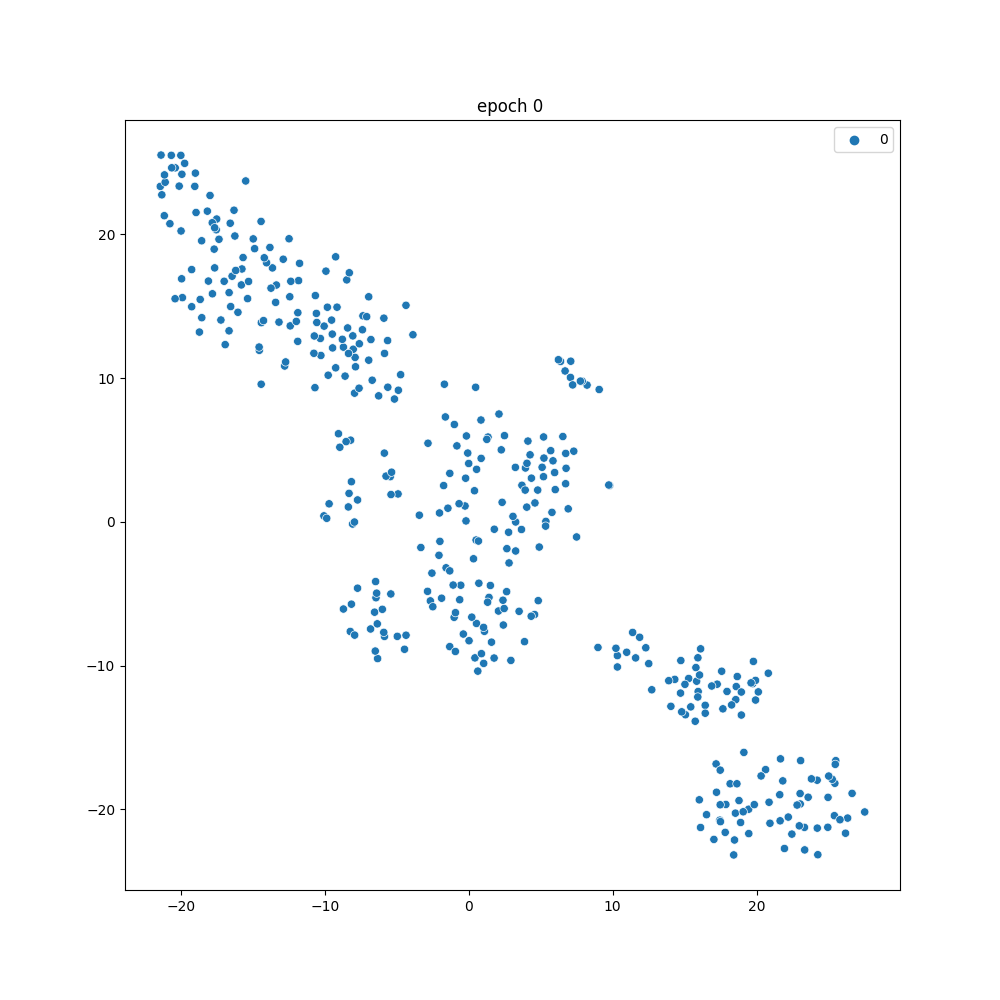
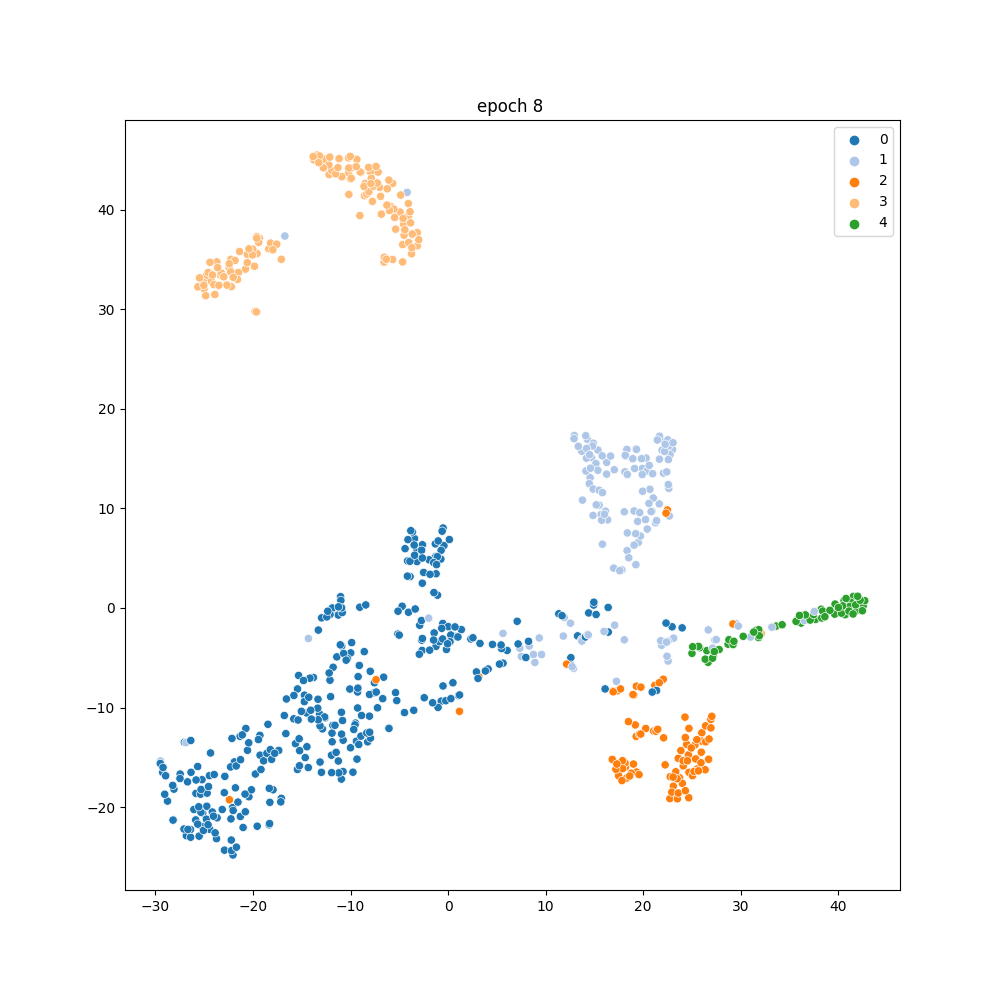
Adicion de nuevos elementos

diff --git a/builders.py b/builders.py
@@ -13,7 +13,7 @@ from callbacks import  SplitDatasetWithKFoldStrategy,ConfusionMatrix,PlotLatentS
 from datamodule import DataModule
 from config import CONFIG, Dataset,TargetModel,AvailableTransforms
 from timm.data.transforms_factory import transforms_imagenet_train,transforms_imagenet_eval
-
+from _utils import load_system
 def build_dataset(root_path:str,dataset_name:str=CONFIG.dataset_name,
                   batch_size:int=CONFIG.batch_size,transform_fn_train=None,transform_fn_val=None):
     
@@ -57,18 +57,19 @@ def get_transforms(transforms_name:str):
             color_jitter=color_jitter,
             auto_augment=auto_augment,  
         )
-        transform_val=transforms_imagenet_eval(
+        
+    else:
+        transform_train=None
+    transform_val=transforms_imagenet_eval(
             img_size=img_size,
         )
-    else:
-        raise NotImplementedError
     return transform_train,transform_val
 def get_callbacks(config:CONFIG,dm,only_train_and_test=False):
     #callbacks
     
     early_stopping=EarlyStopping(monitor='_val_loss',
                                  mode="min",
-                                patience=10,
+                                patience=7,
                                  verbose=True,
                                  check_finite =True
                                  )
@@ -120,36 +121,42 @@ def get_callbacks(config:CONFIG,dm,only_train_and_test=False):
 def get_system(config:CONFIG,dm,num_fold=0,num_repeat=0):
     dataset_name=config.dataset_name
     dataset_enum=Dataset[dataset_name]
-    if hasattr(dm.data_train.dataset,"datasets"):
-        num_class=[len(dm.data_train.dataset.datasets[0].classes),len(dm.data_train.dataset.datasets[1].classes)]
+    num_class=dm.num_class
+    # if hasattr(dm.data_train.dataset,"datasets"):
+    #     num_class=dm.num_class
+    # else:
+            
+    #     num_class=len(dm.data_train.dataset.classes)
+    if config.LOAD_MODEL:
+        
+        load_system(config.checkpoint_name)
     else:
+       
+        if config.target_name==TargetModel.classifier_model_standar.name:
+            
+            system=LitClassifier(
+                model_name=config.experiment_name,
+                lr=config.lr,
+                optim=config.optim_name,
+                in_chans=dm.in_chans,
+                num_class=num_class,
+                num_fold=num_fold,
+                num_repeat=num_repeat
+                                )
         
-        num_class=len(dm.data_train.dataset.classes)
-    if config.target_name==TargetModel.classifier_model_standar.name:
-        
-        system=LitClassifier(
-            model_name=config.experiment_name,
-            lr=config.lr,
-            optim=config.optim_name,
-            in_chans=dm.in_chans,
-            num_class=num_class,
-            num_fold=num_fold,
-            num_repeat=num_repeat
-                             )
-    
-    elif config.target_name==TargetModel.classifier_model_two_in_one.name and dataset_enum==Dataset.elementos_and_fondos:
-        system=LitClassifierTwoInOne(
-            model_name=config.experiment_name,
-            lr=config.lr,
-            optim=config.optim_name,
-            in_chans=dm.in_chans,
-            num_class=num_class,
-            num_fold=num_fold,
-            num_repeat=num_repeat
-                             )
-    else:
-        
-        raise "algo raro, probablemente seleccionaste los dos dataset"   
+        elif config.target_name==TargetModel.classifier_model_two_in_one.name and dataset_enum==Dataset.elementos_and_fondos:
+            system=LitClassifierTwoInOne(
+                model_name=config.experiment_name,
+                lr=config.lr,
+                optim=config.optim_name,
+                in_chans=dm.in_chans,
+                num_class=num_class,
+                num_fold=num_fold,
+                num_repeat=num_repeat
+                                )
+        else:
+            
+            raise "algo raro, probablemente seleccionaste los dos dataset"   
     return system
 
 def get_trainer(wandb_logger,callbacks,config):

diff --git a/lit_classifier.py b/lit_classifier.py
@@ -7,6 +7,8 @@ from config import  ModelsAvailable
 from lit_system import LitSystem
 from metrics import get_metrics_collections_base
 from timm.models.layers.classifier import create_classifier
+from image_classification.models import get_model
+from factory_model import FacebookModels
 class LitClassifier(LitSystem):
     
     def __init__(self,
@@ -64,7 +66,9 @@ class LitClassifier(LitSystem):
         
         if isinstance(model_name,str):
             model_enum=ModelsAvailable[model_name.lower()]
-            
+        # print(timm.list_models())
+        # print(timm.list_models(pretrained=True))
+        
         if model_enum.value in timm.list_models(pretrained=True) and isinstance(num_class,int)  :
             extras=dict(in_chans=in_chans)
             self.model=timm.create_model(
@@ -81,6 +85,12 @@ class LitClassifier(LitSystem):
                                         num_classes=0,
                                         **extras
                                         )
+        elif model_enum==ModelsAvailable.xcits:
+            self.model=get_model( "XciT","S",
+                                 pretrained="checkpoints/xcit_small_24_p16_224_dist.pth",
+                                 image_size=448)
+        elif model_enum.name[0:4]==ModelsAvailable.dino_xcit_medium_24_p16.name[0:4]:
+            self.model=FacebookModels(num_class=num_class,name_model=model_enum.value)
 class LitClassifierTwoInOne(LitClassifier):
     
     def __init__(self, 
@@ -101,8 +111,8 @@ class LitClassifierTwoInOne(LitClassifier):
         weights_0 = torch.ones(5)
         weights_1 = torch.ones(6)
         ignore_classes = torch.LongTensor([0])
-        weights_0[ignore_classes] = 0.0
-        weights_1[ignore_classes] = 0.0
+        weights_0[ignore_classes] = 0.5
+        weights_1[ignore_classes] = 0.5
         self.criterion_0=torch.nn.CrossEntropyLoss(weight=weights_0)
         self.criterion_1=torch.nn.CrossEntropyLoss(weight=weights_1)
         
@@ -126,7 +136,7 @@ class LitClassifierTwoInOne(LitClassifier):
         
         x,labels,dataset_id=batch
         preds_0,preds_1=self.forward(x)
-        
+        #lo siguiente será realizar un clasificador binario
         tensor_template_0=torch.zeros(labels.shape[0]).to(self.device)
         tensor_label_useless_0=torch.full(labels.shape,0).to(self.device)
         labels0=torch.where(dataset_id==tensor_template_0,labels,tensor_label_useless_0)
@@ -140,7 +150,7 @@ class LitClassifierTwoInOne(LitClassifier):
         loss_1=self.criterion_1(preds_1,labels_1)
         preds_1=preds_1.softmax(dim=1)
         
-        loss=loss_0+loss_1
+        loss=loss_0*0.5+loss_1*0.5
         try:
             metric_value0=metric0(preds_0,labels0)
             metric_value1=metric1(preds_1,labels_1)

diff --git a/config.py b/config.py
@@ -17,7 +17,15 @@ class ModelsAvailable(Enum):
     tf_efficientnet_b4="tf_efficientnet_b4"
     tf_efficientnet_b4_ns="tf_efficientnet_b4_ns"
     tf_efficientnet_b7="tf_efficientnet_b7"
-    xcitS="checkpoints/xcit_small_24_p16_224_dist.pth"
+    cait_m48_448="cait_m48_448"
+    xcits="checkpoints/xcit_small_24_p16_224_dist.pth"
+    dino_xcit_medium_24_p16='dino_xcit_medium_24_p16'
+    dino_vits8="dino_vits8" #pues batch de 6 como mucho
+    vit_base_patch16_224_miil_in21k="vit_base_patch16_224_miil_in21k"
+    vit_base_patch16_384="vit_base_patch16_384"
+    
+    
+    
     
 class Dataset (Enum):
     elementos_presentes="ocean_elements"
@@ -40,6 +48,7 @@ class AvailableTransforms(Enum):
     p600_50_0_40_none=4
     p448_50_30_40_rand=5
     p448_50_30_70_rand=6
+    p384_50_30_40_rand=7
     
 @dataclass
 class CONFIG(object):
@@ -56,8 +65,8 @@ class CONFIG(object):
     transforms_target=AvailableTransforms.p448_50_30_40_rand
     transforms_name:str=transforms_target.name
     #torch config
-    batch_size:int = 49
-    dataset=Dataset.fondos
+    batch_size:int = 40
+    dataset=Dataset.elementos_presentes
     dataset_name:str=dataset.name
     precision_compute:int=16
     optim=Optim.adam
@@ -72,10 +81,11 @@ class CONFIG(object):
     NUM_WORKERS:int = 4
     SEED:int=1
     # IMG_SIZE:int=28
-    NUM_EPOCHS :int= 50
+    NUM_EPOCHS :int= 75
     LOAD_MODEL :bool= False
     SAVE_MODEL :bool= False
     PATH_CHECKPOINT: str= os.path.join(ROOT_WORKSPACE,"/model/checkpoint")
+    checkpoint_name:str=experiment.value
 
     callback_plot_latent_space:bool=False
     callback_matrix_wandb:bool=False
@@ -84,10 +94,10 @@ class CONFIG(object):
     
     gpu0:bool=False  
     gpu1:bool=True
-    notes:str="final experiments"
+    notes:str=""
     
-    version:int=3
-    #en la versión 3 se ha añadido un transform al dataset de validación ya que se usaba el de entrenamiento
+    version:int=4
+    #Iniciando el poner Dino
     
 
 def create_config_dict(instance:CONFIG):

diff --git a/train.py b/train.py
@@ -16,7 +16,7 @@ import wandb
 from builders import build_dataset, get_callbacks, get_trainer,get_system,get_transforms
 from config import CONFIG, create_config_dict
 import pandas as pd
-
+import numpy as np
 ##code to run cd /home/dcast/adversarial_project ; /usr/bin/env /home/dcast/anaconda3/envs/deep_learning_torch/bin/python  -- /home/dcast/adversarial_project/openml/train.py
 def apply_train_test():
     def get_new_system_and_do_training_and_test(config,data_module,wandb_logger,callbacks,num_repeat=None,num_fold=None,run_test:bool=False):
@@ -24,6 +24,7 @@ def apply_train_test():
 
         # test_dataloader=data_module.test_dataloader()
         #create trainer
+        callbacks[1].best_score=torch.tensor(np.Inf)
         trainer=get_trainer(wandb_logger,callbacks,config)
         
         # model=autotune_lr(trainer,model,data_module,get_auto_lr=config.AUTO_LR)

diff --git a/datamodule.py b/datamodule.py
@@ -59,15 +59,16 @@ class DataModule(LightningDataModule):
         if self.dataset_enum == Dataset.elementos_presentes:
             self.dataset=ElementsLoader
             self.in_chans=3
-
+            self.num_class=5
         elif self.dataset_enum == Dataset.fondos:
             self.dataset=FondosLoader
-
+            self.num_class=4
                 
         elif self.dataset_enum==Dataset.elementos_and_fondos:
             self.dataset=[FondosLoaderToCombine,ElementsLoaderToCombine]
             self.datasets_enums=[Dataset.fondos,Dataset.elementos_presentes]
-            
+            self.num_class=[5,4]
+
     def prepare_data(self):
      
         

diff --git a/factory_model.py b/factory_model.py
@@ -1,0 +1,17 @@
+import torch
+import torch.nn as nn
+
+import timm
+from timm.models.layers.classifier import create_classifier
+class FacebookModels(nn.Module):
+    def __init__(self,num_class,name_model):
+        super().__init__()
+        self.backbone=torch.hub.load("facebookresearch/dino:main" ,name_model)
+        num_features=self.backbone.num_features
+        _,self.classifier=create_classifier(num_features,num_class,pool_type="avg")
+        
+    def forward(self,x):
+        x=self.backbone(x)
+        # x=self.global_pool(x)
+        x=self.classifier(x)
+        return x

diff --git a/callbacks.py b/callbacks.py
@@ -184,7 +184,7 @@ class PlotLatentSpace(Callback):
         filenames = []
         labels=[]
         rng=np.random.default_rng()
-        classes_selected=np.array(list(range(0,198,10))    )
+        classes_selected=np.array(list(range(0,10,1))    )
         # disable gradients for faster calculations
         pl_module.eval()
         with torch.no_grad():

diff --git a/_utils.py b/_utils.py
@@ -1,0 +1,9 @@
+
+from lit_classifier import LitClassifier
+from config import CONFIG
+import os
+def load_system(checkpoint_name,root_path=CONFIG.PATH_CHECKPOINT):
+    path_ckpt=os.path.join(root_path,checkpoint_name)
+    system = LitClassifier.load_from_checkpoint(path_ckpt)
+    
+    return system

diff --git a/README.md b/README.md
@@ -1,1 +1,3 @@
 # hackaton_ocean_problem
+
+#Authors: David Castellano Falcón
